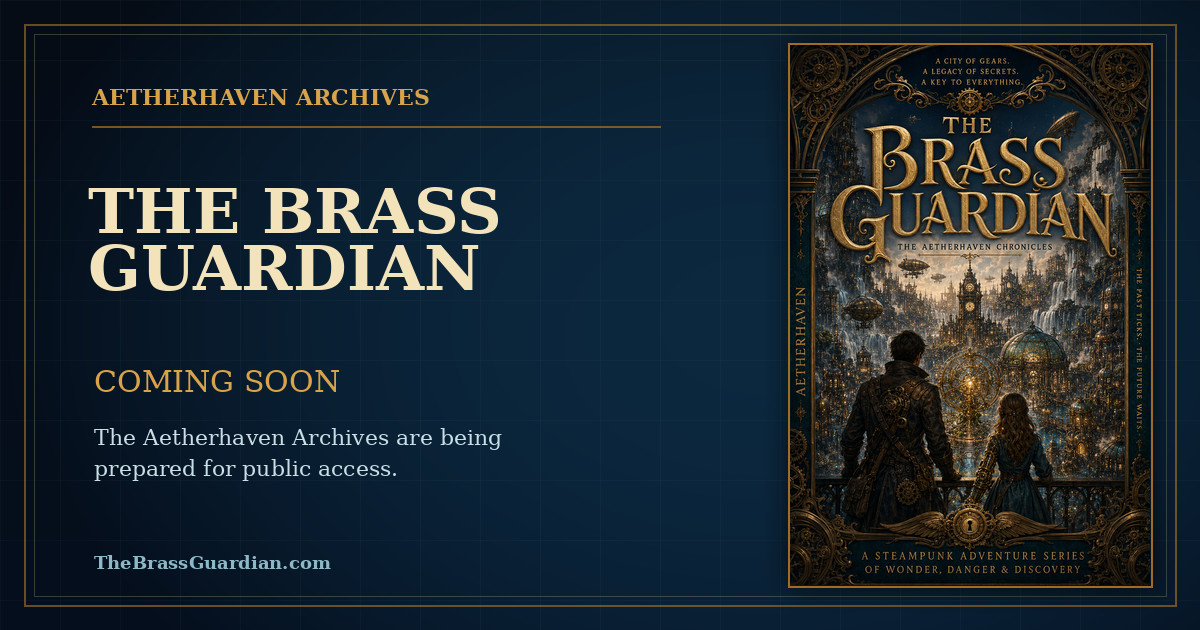
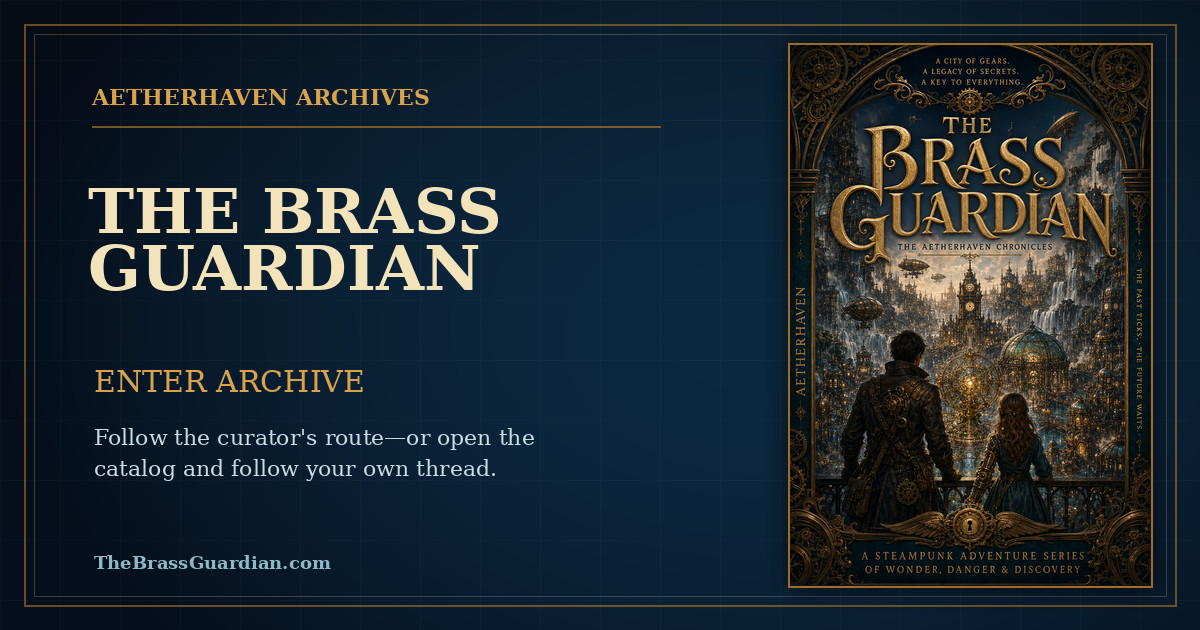
feat(website): open archive from landing page

Changed region(s): [[0.0617, 0.6635, 0.4317, 0.754], [0.0617, 0.573, 0.3083, 0.6333]]

diff --git a/website/scripts/generate-brand-assets.py b/website/scripts/generate-brand-assets.py
@@ -109,10 +109,10 @@ def create_social_preview() -> None:
         fill="#f3e3bb",
         spacing=-2,
     )
-    draw.text((94, 364), "COMING SOON", font=font(SERIF, 30), fill="#d8a34b")
+    draw.text((94, 364), "ENTER ARCHIVE", font=font(SERIF, 30), fill="#d8a34b")
     draw.multiline_text(
         (94, 424),
-        "The Aetherhaven Archives are being\nprepared for public access.",
+        "Follow the curator's route—or open the\ncatalog and follow your own thread.",
         font=font(SERIF, 22),
         fill="#c9dfe5",
         spacing=10,

diff --git a/website/README.md b/website/README.md
@@ -2,7 +2,7 @@
 
 This directory contains the Astro site for **The Brass Guardian**.
 
-It currently renders a public-safe Coming Soon page with Vercel Web Analytics, Speed Insights, responsive derivatives of the approved cover artwork, and an accessible cover reader. It does not yet publish stories, character profiles, or internal canon files.
+Production currently renders a sealed public-safe landing exhibit with Vercel Web Analytics, Speed Insights, responsive derivatives of the approved cover artwork, and an accessible cover reader. An enabled World Entrance preview replaces the sealed message with an **Enter Archive** action while keeping proposal routes outside production.
 
 ## Local Verification
 
@@ -101,7 +101,7 @@ Pillow is intentionally a local, generator-only dependency. It is not listed in 
 
 ## Sharing and Utility Routes
 
-`src/layouts/SiteLayout.astro` owns the shared HTML shell, Vercel instrumentation, and `SiteMeta` integration. `src/components/SiteMeta.astro` owns canonical, Open Graph, Twitter/X card, favicon, manifest, and indexing metadata. The Coming Soon page remains deliberately `noindex, nofollow`. `src/pages/404.astro` provides a public-safe archive-themed error route with an obvious return to the archive entrance.
+`src/layouts/SiteLayout.astro` owns the shared HTML shell, Vercel instrumentation, and `SiteMeta` integration. `src/components/SiteMeta.astro` owns canonical, Open Graph, Twitter/X card, favicon, manifest, and indexing metadata. The landing page and all proposal routes remain deliberately `noindex, nofollow` until an indexing transition is approved. `src/pages/404.astro` provides a public-safe archive-themed error route with an obvious return to the archive entrance.
 
 ## Web Analytics
 

diff --git a/agents/shared/CURRENT_WORK.md b/agents/shared/CURRENT_WORK.md
@@ -75,6 +75,7 @@ These are directional, not yet a locked sitemap.
 - Milestone C1 is active on `feat/world-entrance-map`. The branch is an author-approved iterative workspace: agents may commit, push, and refresh its Vercel Preview without per-change approval, but may not merge to `main` or publish to production without explicit approval.
 - C1 currently contains a proposal-only Archive entrance, interactive Aetherhaven map, and seven preview records. Proposal records are enabled only by `PUBLICATION_PREVIEW=1` or Vercel's `VERCEL_ENV=preview`; the production build keeps the approved public manifest empty and excludes proposal record routes, copy, and artwork. Candidate derivatives live outside Astro's unconditional `public/` tree and are staged only during preview builds.
 - C1 navigation now follows the approved dual model: an eight-stop Curator’s Route provides intentional orientation while the searchable Open Catalog, Map Room, and record cross-references support free exploration. Every record preserves both a recommended next stop and an obvious way to leave the route.
+- Preview-enabled landing builds now replace preparation/Coming Soon language with **Enter Archive** and link directly to `/archive/`; preview-disabled production-safe builds retain the sealed landing page and emit no Archive link.
 
 ### Next Recommended Step
 

diff --git a/agents/shared/DECISIONS.md b/agents/shared/DECISIONS.md
@@ -172,6 +172,8 @@ The public Archive experience should combine a natural, curator-led sequence wit
 
 The Curator’s Route and Open Catalog are complementary views of the same cleared material, not separate canon tiers or access gates. The interface should feel like exploring rooms, cabinets, maps, and record relationships rather than navigating a conventional wiki, while still making location, orientation, and the next available action unmistakable.
 
+While the World Entrance preview is enabled, the main landing exhibit must replace its obsolete preparation language with a primary **Enter Archive** action. Preview-facing metadata and sharing artwork should use the same active invitation. When preview mode is disabled, the landing page remains sealed and no Archive link is emitted until the exact publication transition is approved.
+
 ---
 
 ## 2026-08-08 — Moon Garden Canon

diff --git a/website/docs/PUBLICATION_BOUNDARY.md b/website/docs/PUBLICATION_BOUNDARY.md
@@ -12,7 +12,7 @@ This document defines the curated projection boundary between the internal Brass
 
 The website must never import or render the internal canon library wholesale. Public routes may consume only records deliberately added to `content/public/manifest.json` after the author approves the exact public projection.
 
-The manifest currently contains an empty `entries` array. The production Coming Soon page therefore remains the only substantive public page.
+The manifest currently contains an empty `entries` array. Production therefore retains only the sealed landing exhibit and utility routes; preview-only Archive content is not an approved public projection.
 
 ## Executable Contract
 
